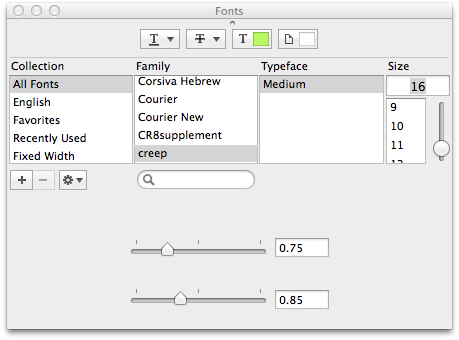
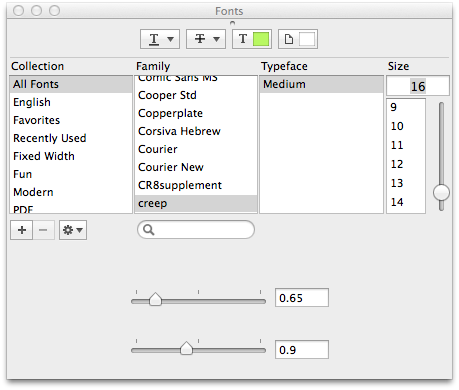
correct some errors in readme

diff --git a/README.md b/README.md
@@ -6,7 +6,7 @@ my own with creep.  It is a pretty compact (only 4px wide!) font that's great
 for smaller screens (like my 11" laptop).
 
 I'm constantly adding in new characters (diacritics, box-drawing characters, etc.),
-so I figured I'd put it up on github for poeple to reap the gain this.
+so I figured I'd put it up on github for poeple to reap benefits of this.
 
 ![screenshot1](screens/screen.png  "screenshot of the ASCII characters")
 ![screenshot2](screens/screen2.png "in the wild example")
@@ -38,9 +38,9 @@ Alternativatly you can download one of the [releases](https://github.com/romeovs
 these are not the latest versions of the font but I will try to update them regulary so you don't
 have to go trought these steps.
 
-I'm not a professional font creator so there are some quirks in the character
-sizing.  To get past these I set the line height to 0.85 and the character spacing
-to 0.75 in Terminal.app (using a Size of 16px).
+I'm not a professional font creator so there are some little quirks in the character
+sizing.  To get past these I set the line height to 0.9 and the character spacing
+to 0.75 in Terminal.app (using a Size of 16px) to make it look airtight.
 
 ![terminal](screens/info.png "Terminal.app settings")
 
@@ -94,8 +94,6 @@ This yields the following visual effect:
 ## Attribution
 Before I created creep I was using Proggy Tiny, which is a great font
 and has given me a lot of inspiration.
-
-[CREEPIN NO SLEEPING](https://soundcloud.com/youngmustard/creepin-no-sleepin)
 
 ## License
 I love you all, so please use this font as much as you like for free.  But make sure you provide the
